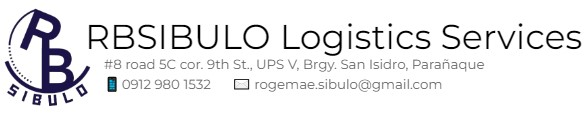
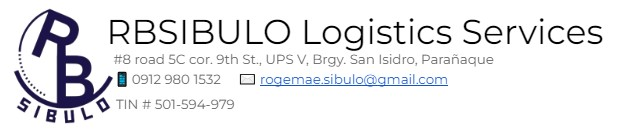
Updates made through user suggestions

diff --git a/src/Modal/PrintPreview.jsx b/src/Modal/PrintPreview.jsx
@@ -17,7 +17,9 @@ function PrintPreview(props) {
     const totalAmount = items.reduce((total, item) => 
     total + (item.unitPrice * item.quantity * item.exchangeRate), 0)
 
-    const fileName = `${docType.slice(0,1).toUpperCase()}${currentYear.toString().slice(-2)}${currentMonth}${currentDay}-${billTo.slice(0,5)}`
+    const fileName = `${docType.slice(0,1).toUpperCase()}${currentYear.toString().slice(-2)}${currentMonth}${currentDay}-${billTo.slice(0,2).split('').map((char) => {
+        return char.charCodeAt(0);
+    }).join('')}`
 
     const downloadPDF = () => {
         const content = document.getElementById('printfile');
@@ -105,6 +107,11 @@ function PrintPreview(props) {
                                 </tr>
                             </tfoot>
                         </table>
+                            <small>
+                                <strong>
+                                    This is not valid for input tax claim
+                                </strong>
+                            </small>
                     </fieldset>
                 </div>
             </div>

diff --git a/src/Components/BillTo.jsx b/src/Components/BillTo.jsx
@@ -43,7 +43,7 @@ function BillTo(props) {
                     onChange={handleSelect}>
                         <option selected disabled>Select Document Type</option>
                         <option value={'quotation'}>Quotation</option>
-                        <option value={'billing'}>Billing</option>
+                        <option value={'billing statement'}>Billing Statement</option>
                         <option value={'statement of account'}>Statement of Account</option>
                     </select>
                 </fieldset>

diff --git a/README.md b/README.md
@@ -12,7 +12,14 @@ A simple billing form generator for my wife's business.
 - Create React App
 - Bootstrap 5
 
-## To do list before first deploy:
+
+## Change History:
+- 03/11/24
+  - Changed 'billing' to 'billing statement'
+  - Added note at preview page.
+  - Changed letterhead.
+
+## TODO:
 - [ ] Fix Print layout
 - [ ] UI fixes
 - [x] Form switch between Quotation and Billing
